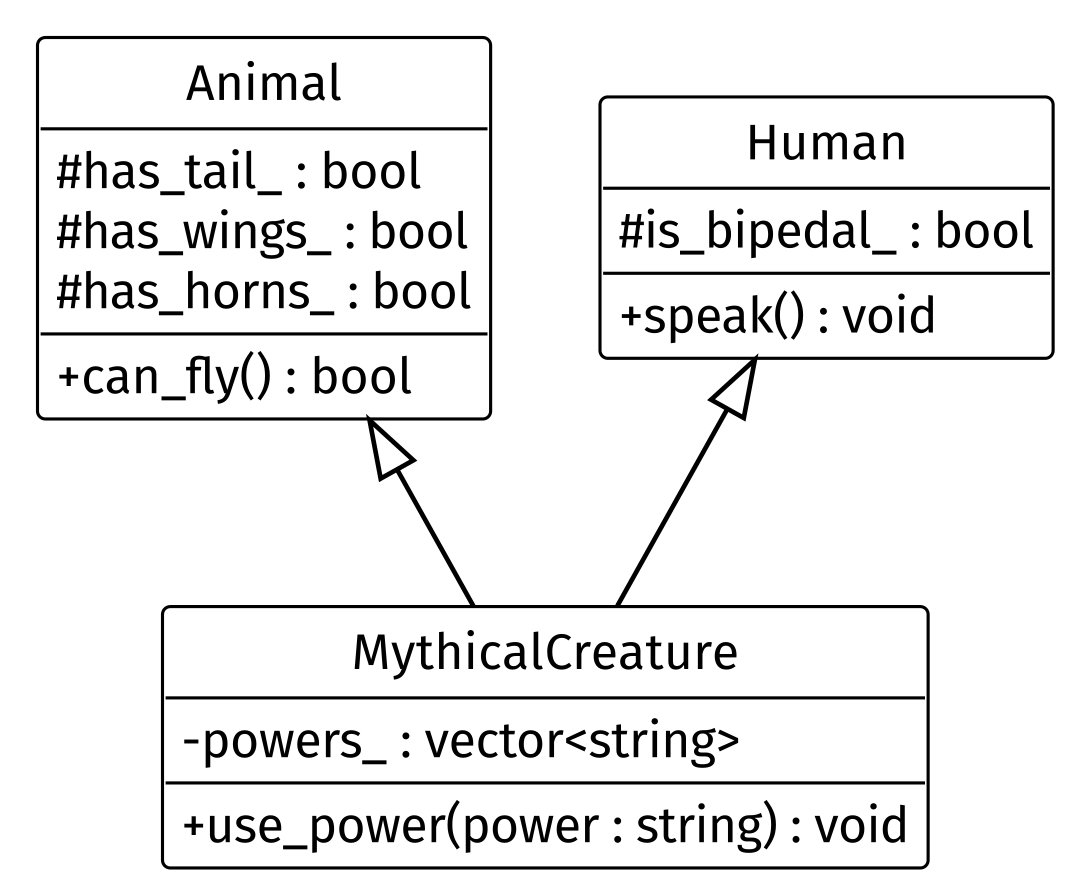
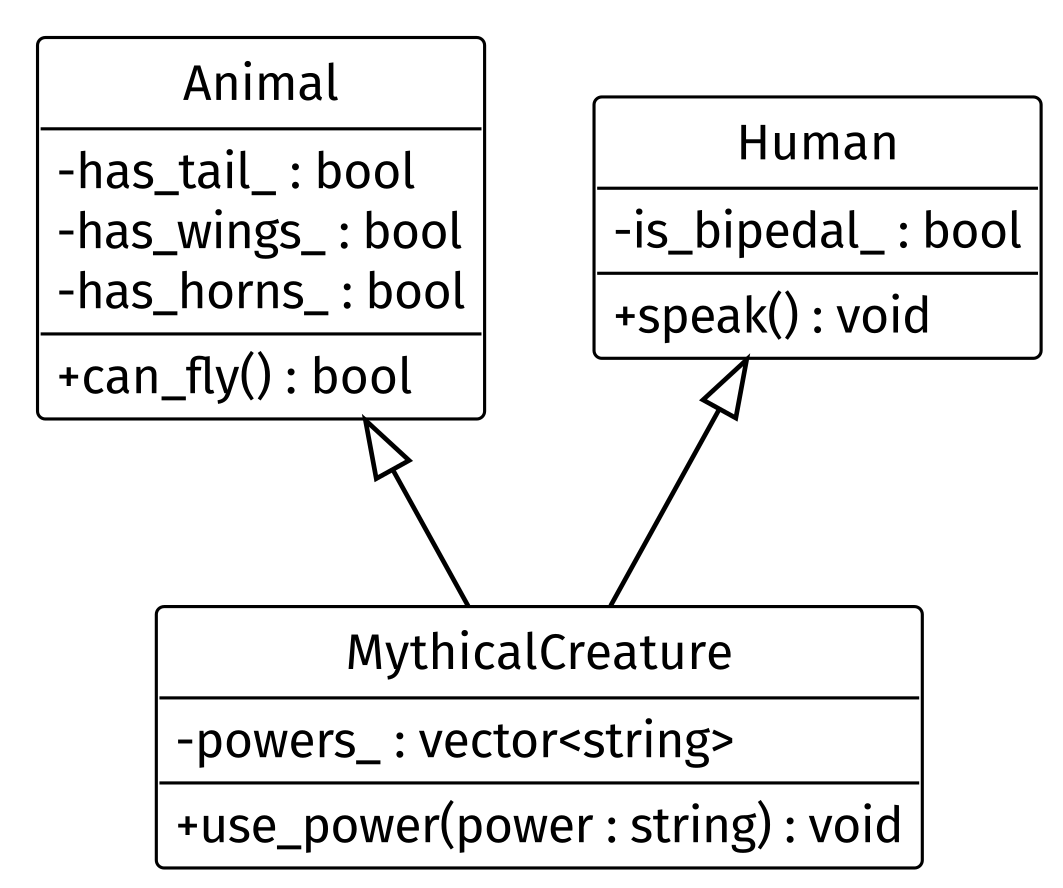
L9: weak_ptr choice, multiplicity decisions, inheritance kinds
The docs follow the deck: Choosing the Type of ride_, A Vehicle Uses a
Route inside Dependency, multiplicity on each relationship, private data in
the Animal examples, the inheritance kinds figure, and the link to the
PlantUML sources.

diff --git a/docs/source/lectures/lecture9/l9_lecture.rst b/docs/source/lectures/lecture9/l9_lecture.rst
@@ -370,6 +370,7 @@ Multiplicity
 - ``0..1`` at ``Vehicle``: one passenger rides at most one vehicle at a time.
 - ``0..*`` at ``Passenger``: one vehicle carries any number of passengers.
 - An end with no number leaves the count open.
+- The number at ``B``'s end decides ``A``'s member: ``0..1`` or ``1``, one object; ``0..*`` or ``1..*``, a container such as ``std::vector``.
 
 A Diagram as Text
 """""""""""""""""
@@ -396,6 +397,10 @@ Two boxes of the design, in PlantUML:
 - A line is written between two class names: ``-->`` is an arrow, ``o--`` an open diamond, ``*--`` a filled diamond, ``<|--`` a hollow triangle, ``..>`` a dashed arrow.
 - The VS Code extension draws the file as you type (``Alt+D``).
 - The whole diagram is ``project/week9/uml/robotaxi_model.plantuml``.
+
+.. note::
+
+   The PlantUML source of the UML diagrams on the slides is in `project/week9/uml <https://github.com/zeidk/enpm702-fall-2026-cpp/tree/main/project/week9/uml>`__. See `PlantUML: class diagrams <https://plantuml.com/class-diagram>`__.
 
 Summary
 ^^^^^^^
@@ -469,20 +474,6 @@ Every question is about the design, not about code that already exists.
 3. If ``A`` keeps ``B``: can ``B`` exist without ``A``? A ``Sensor`` is part of its ``Vehicle`` and goes with it, so composition: ``std::unique_ptr``, or a plain member as for a ``Route``'s ``Position`` values.
 4. If ``B`` lives on its own: must ``A`` keep it alive? The ``Fleet`` must, so aggregation: ``std::shared_ptr``. A ``Passenger`` must not: FR-12.3 says boarding does not keep a vehicle alive, so association: ``std::weak_ptr``.
 
-A Vehicle Uses a Route
-""""""""""""""""""""""
-
-.. figure:: /_static/images/l9/model_l9_dependency_members.png
-   :alt: A UML class diagram with only two boxes, Vehicle on the left and Route on the right, each listing its members; both boxes and the arrow are purple. Vehicle, its name in italics, has the data members minus id_ : int, the underlined minus next_id_ : int, minus max_speed_ : double, minus speed_ : double, minus color_ : string, minus mileage_ : double and minus sensors_ : vector of unique_ptr of Sensor, and the methods plus Vehicle(double, const string& = "white"), plus Vehicle(double, double), plus get_id() : int, plus get_color() : const string&, plus get_max_speed() : double, plus get_speed() : double, plus set_speed(double) : void, plus get_mileage() : double, plus add_mileage(double) : void, plus add_sensor(SensorType, double) : int, plus sensor_count() : size_t, plus get_sensors() : const vector of unique_ptr of Sensor&, plus drive(const Route&) : void in italics, the underlined plus next_id() : int, and the protected hash log_event(const string&) : void. Route has minus waypoints_ : vector of Position, plus add(Position) : void and plus length() : double. A dashed arrow labeled uses runs from Vehicle to Route.
-   :align: center
-   :width: 100%
-
-   ``Vehicle`` and ``Route`` with every member: the dashed arrow labeled ``uses``.
-
-- The first question of the table at work: ``Vehicle`` and ``Route``, with every member. ``Route`` is in one place only in ``Vehicle``'s box: the parameter of ``drive``.
-- No data member of ``Vehicle`` is a ``Route``. That is what the dashed arrow says: ``Vehicle`` uses a ``Route`` during a call and keeps nothing.
-- ``Route``'s box lists ``waypoints_``, as every box lists its data members; the ``has`` line to ``Position`` is not drawn here.
-
 Association
 ^^^^^^^^^^^
 
@@ -530,9 +521,41 @@ A Passenger Rides a Vehicle
 
    ``Passenger`` and ``Vehicle`` with every member: the arrow labeled ``rides``, its ``Vehicle`` end named ``-ride_``.
 
+- ``0..1`` at ``Vehicle``: a passenger rides at most one vehicle, so ``ride_`` is one ``std::weak_ptr``, not a container. ``0..*`` at ``Passenger`` needs no member: the arrow is one-way.
 - The same two boxes as in `Passenger and Vehicle in the Class Diagram`_, with every member. ``Passenger`` is what we write in Step 1: a name, a constructor, ``board`` and ``leave``.
 - ``ride_`` is in ``Passenger``'s box, with its type, ``std::weak_ptr<Vehicle>``. Its name is at the ``Vehicle`` end of the arrow too: the line says which data member holds the vehicle.
 - ``Vehicle``'s box is the class you are given, in ``vehicle.hpp`` and ``vehicle.cpp``, with the id and the static counter ``next_id_``. ``drive`` is in italics: `Abstraction`_ makes it pure ``virtual``. Step 1 does not touch ``Vehicle``.
+
+Choosing the Type of ``ride_``
+""""""""""""""""""""""""""""""
+
+:ref:`FR-12.3 <fr-12-3>`: "Boarding shall not keep a vehicle alive". The company can retire a car during a ride. Three types could hold the car in ``ride_``:
+
+.. list-table::
+   :header-rows: 1
+   :widths: 24 22 38 16
+
+   * - Type of ``ride_``
+     - Keeps the car alive?
+     - After the car is destroyed
+     - FR-12.3
+   * - ``std::shared_ptr<Vehicle>``
+     - Yes: the passenger is an owner
+     - The car is never destroyed while the passenger rides
+     - Broken
+   * - ``Vehicle*``
+     - No
+     - The pointer dangles: the code cannot tell, and reading it is undefined behavior
+     - Met, unsafely
+   * - ``std::weak_ptr<Vehicle>``
+     - No
+     - ``expired()`` is true, and ``lock()`` gives an empty pointer
+     - Met
+
+- A ``std::shared_ptr`` makes Maya an owner: a car the company retires would live on as long as Maya rides.
+- A plain pointer owns nothing, but when the car is destroyed it still holds the old address. The code cannot tell, and reading through it is undefined behavior.
+- A ``std::weak_ptr`` owns nothing and can tell. That is why ``ride_`` is a ``std::weak_ptr``. `Two Separate Lifetimes`_ runs it.
+- A plain pointer is right only when the other object surely outlives this one, as a ``Vehicle`` outlives the sensors it owns.
 
 Two Separate Lifetimes
 """"""""""""""""""""""
@@ -548,7 +571,7 @@ Two Separate Lifetimes
    car_a.reset();  // the only owner lets go
    std::cout << std::boolalpha
              << watcher.expired() << '\n';
-   maya.leave();   // her ride_ has expired
+   maya.leave();   // maya's ride_ has expired
 
 .. code-block:: text
 
@@ -559,9 +582,9 @@ Two Separate Lifetimes
 - ``13.4`` is 13.4 m/s, the maximum speed (about 30 mph).
 - ``use_count()`` stays 1 after ``board``: the ``std::weak_ptr`` is not an owner.
 - ``watcher`` is a second ``std::weak_ptr``, only for the check. ``reset()`` ends the only owner, and ``expired()`` is true: the ``Vehicle`` object is destroyed, although ``maya`` still refers to it.
-- ``maya`` lives on, aboard a car that no longer exists. FR-12.3 allows it, and her ``std::weak_ptr`` can tell that the car is gone, where a plain pointer could not.
+- ``maya`` lives on, aboard a car that no longer exists. FR-12.3 allows it, and ``ride_`` can tell that the car is gone, where a plain pointer could not.
 - The type follows a requirement, not the real world: :ref:`FR-12.3 <fr-12-3>` says boarding shall not keep a vehicle alive. In C++, an owner is whoever decides when an object is destroyed, nothing more.
-- A ``std::shared_ptr`` would make ``maya`` an owner: the car could not be destroyed while she holds it, even after the fleet removes it. That breaks FR-12.3: a car outside the fleet, still carrying a passenger.
+- A ``std::shared_ptr`` would make ``maya`` an owner: the car could not be destroyed while maya holds it, even after the fleet removes it. That breaks FR-12.3: a car outside the fleet, still carrying a passenger.
 - Could ``remove`` check ``use_count()`` and refuse when it is above 1? The count counts every owner, not passengers. In Step 2, ``car_b.use_count()`` is 2 just before ``remove``, with no passenger: ``main`` holds one copy and the fleet the other.
 - A plain pointer or a reference does not own the car either, but it cannot tell when the car is destroyed: the next use reads freed memory. A ``std::weak_ptr`` refers to the car without owning it, and it can check first.
 - Run: ``702run week9_playground 26``.
@@ -581,44 +604,6 @@ A program models the part of reality that its requirements need. It departs from
 
 - Start from reality: classes named after the domain are easy to read. When reality and the requirements disagree, the requirements win.
 - The test to use: what must happen to ``B`` when ``A`` is destroyed, and which requirement says so?
-
-A std::weak_ptr, or a Plain Pointer
-"""""""""""""""""""""""""""""""""""
-
-.. grid:: 1 1 2 2
-   :gutter: 2
-
-   .. grid-item::
-
-      .. code-block:: cpp
-
-         class Passenger {  // cut
-           // ...
-          private:
-           std::weak_ptr<Vehicle> ride_;
-         };
-
-   .. grid-item::
-
-      .. code-block:: cpp
-
-         class Sensor {  // a variant
-          public:
-           explicit Sensor(const Vehicle* mount)
-               : mount_{mount} {}
-          private:
-           const Vehicle* mount_;  // owns nothing
-         };
-         // in add_sensor:
-         //   std::make_unique<Sensor>(this)
-
-- A ``std::weak_ptr`` when the other object is owned by ``std::shared_ptr`` and can be destroyed first: a car can be retired during a ride (FR-12.3).
-- A plain pointer when the other object surely outlives this one. The right box is a variant: a sensor that would know which car it is mounted on. A ``Vehicle`` owns its sensors, so it outlives each of them; our ``Sensor`` has no such member. The pointer comes from ``this``, not from ``new``: ``add_sensor`` still uses ``std::make_unique``, and nobody deletes through ``mount_``.
-- Never a ``std::shared_ptr``: it would make the passenger an owner, and keep a retired car alive.
-
-.. note::
-
-   "A raw pointer (a ``T*``) is non-owning". Rule: `Core Guidelines R.3 <https://isocpp.github.io/CppCoreGuidelines/CppCoreGuidelines#rr-ptr>`__.
 
 Live Coding: Step 1
 """""""""""""""""""
@@ -689,6 +674,7 @@ A Fleet Holds Vehicles
 
    ``Fleet`` and ``Vehicle`` with every member: the line labeled ``holds``, its ``Vehicle`` end named ``-vehicles_``.
 
+- ``0..*`` at ``Vehicle``: a fleet holds any number of vehicles, so ``vehicles_`` is a ``std::vector``, with one ``std::shared_ptr<Vehicle>`` per vehicle.
 - The same two boxes as in `Fleet and Vehicle in the Class Diagram`_, with every member. ``Fleet`` is what you write in Step 2: ``add``, ``remove`` and ``size``.
 - ``vehicles_`` is in ``Fleet``'s box, with its type, a ``std::vector`` of ``std::shared_ptr<Vehicle>``. Its name is at the ``Vehicle`` end of the line too.
 - ``Vehicle``'s box does not change in Step 2. ``Fleet`` needs only ``get_id``, to remove a vehicle by its id.
@@ -720,7 +706,7 @@ The Vehicles Outlive the Fleet
    1 13.4
 
 - Inside the scope, ``car_a`` and the fleet share the first ``Vehicle``: 2 owners. ``remove`` lets go of the second one, and it lives on with 1 owner. So does the first, after the fleet is gone.
-- Run: ``702run week9_playground 35``.
+- Run: ``702run week9_playground 34``.
 
 Shared Ownership Needs std::shared_ptr
 """"""""""""""""""""""""""""""""""""""
@@ -773,7 +759,7 @@ A Route Owns Its Positions
 
    ``Route`` and ``Position`` with every member: the line labeled ``has``.
 
-- ``waypoints_`` holds the ``Position`` values themselves, in a ``std::vector``: they are destroyed with the ``Route``.
+- ``0..*`` at ``Position``: a route has any number of waypoints, so ``waypoints_`` is a ``std::vector``. It holds the ``Position`` values themselves: they are destroyed with the ``Route``.
 - ``waypoints_`` is in ``Route``'s box, and its name is at the ``Position`` end of the ``has`` line too. ``Position`` is a ``struct``: any ``x`` and any ``y`` make a position.
 
 A Vehicle Owns Its Sensors
@@ -786,7 +772,7 @@ A Vehicle Owns Its Sensors
 
    ``Vehicle`` and ``Sensor`` with every member: the line labeled ``owns``.
 
-- ``sensors_`` holds one ``std::unique_ptr`` per ``Sensor``: each ``Sensor`` is destroyed with its ``Vehicle``.
+- ``0..*`` at ``Sensor``: a vehicle has any number of sensors, so ``sensors_`` is a ``std::vector``, with one ``std::unique_ptr`` per ``Sensor``. Each ``Sensor`` is destroyed with its ``Vehicle``.
 - ``Sensor``'s ``type_`` is a ``SensorType``, the enumeration. Its box is not in this diagram, because no composition involves it.
 - Nothing here is new code: ``Vehicle``, ``Sensor``, ``Route`` and ``Position`` are all in ``project/week9/common`` already.
 
@@ -828,7 +814,7 @@ Each Route Has Its Own Positions
 
 - Positions in m, chosen for this example: from the pickup (0, 0) to Maya's stop (300, 400) is 500 m, the long side of a 300, 400, 500 right triangle. Ana's stop is 400 m straight down, at (300, 0): 500 + 400 = 900.
 - The copy has its own ``Position`` values: adding Ana's stop to ``shared_ride`` leaves ``maya_ride`` at 500 m. A part belongs to one whole.
-- Run: ``702run week9_playground 43``.
+- Run: ``702run week9_playground 42``.
 
 Aggregation or Composition
 """"""""""""""""""""""""""
@@ -883,6 +869,20 @@ Vehicle and Route in the Class Diagram
 
 - The dashed arrow is the weakest line in the diagram. No diamond and no number: a vehicle does not hold a route, it is handed one for each drive.
 - The other dashed arrow, from ``Sensor`` to ``SensorType``, is a dependency too: ``Sensor`` uses the enumeration as the type of a member.
+
+A Vehicle Uses a Route
+""""""""""""""""""""""
+
+.. figure:: /_static/images/l9/model_l9_dependency_members.png
+   :alt: A UML class diagram with only two boxes, Vehicle on the left and Route on the right, each listing its members; both boxes and the arrow are purple. Vehicle, its name in italics, has the data members minus id_ : int, the underlined minus next_id_ : int, minus max_speed_ : double, minus speed_ : double, minus color_ : string, minus mileage_ : double and minus sensors_ : vector of unique_ptr of Sensor, and the methods plus Vehicle(double, const string& = "white"), plus Vehicle(double, double), plus get_id() : int, plus get_color() : const string&, plus get_max_speed() : double, plus get_speed() : double, plus set_speed(double) : void, plus get_mileage() : double, plus add_mileage(double) : void, plus add_sensor(SensorType, double) : int, plus sensor_count() : size_t, plus get_sensors() : const vector of unique_ptr of Sensor&, plus drive(const Route&) : void in italics, the underlined plus next_id() : int, and the protected hash log_event(const string&) : void. Route has minus waypoints_ : vector of Position, plus add(Position) : void and plus length() : double. A dashed arrow labeled uses runs from Vehicle to Route.
+   :align: center
+   :width: 100%
+
+   ``Vehicle`` and ``Route`` with every member: the dashed arrow labeled ``uses``.
+
+- The same two boxes, with every member. This is the flowchart's dependency question at work: does ``Vehicle`` use ``Route`` without keeping it? ``Route`` is in one place only in ``Vehicle``'s box: the parameter of ``drive``.
+- No data member of ``Vehicle`` is a ``Route``. That is what the dashed arrow says: ``Vehicle`` uses a ``Route`` during a call and keeps nothing.
+- ``Route``'s box lists ``waypoints_``, as every box lists its data members; the ``has`` line to ``Position`` is not drawn here.
 
 A Route for One Call
 """"""""""""""""""""
@@ -947,7 +947,15 @@ Inheritance
    class Derived : protected Base { /* what Derived adds */ };
    class Derived : private Base { /* what Derived adds */ };
 
-- This course uses ``public`` inheritance. `protected and private Inheritance`_ shows what each of the three does to the base's members.
+.. figure:: /_static/images/l9/inheritance_kinds.png
+   :alt: Three UML panels side by side, one per kind of inheritance, each headed by its syntax: class Derived : public Base, class Derived : protected Base, class Derived : private Base. In each, a Base box lists plus start() : void, hash log_event() : void and minus check() : void, and a Derived box below it joins Base by a line with a hollow triangle at Base. With public inheritance, Derived lists plus start() and hash log_event(). With protected inheritance, hash start() and hash log_event(). With private inheritance, minus start() and minus log_event(). In all three, Derived lists check() in grey as not accessible.
+   :align: center
+   :width: 100%
+
+   What ``start()``, ``log_event()`` and ``check()`` of ``Base`` become in ``Derived``, for each kind of inheritance.
+
+- Three kinds, by the keyword before the base. With ``public``, ``start()`` stays public; with ``protected``, it becomes protected; with ``private``, both methods become private. ``check()`` is private in ``Base``, so ``Derived`` never reaches it, whatever the keyword.
+- This course uses ``public`` inheritance; `protected and private Inheritance`_ has the full table.
 - In UML, a hollow triangle at the base class.
 - What every kind of vehicle shares (an id, the speeds and their check, the sensors) is written once, in ``Vehicle``.
 
@@ -955,7 +963,7 @@ Single Inheritance
 """"""""""""""""""
 
 .. figure:: /_static/images/l9/single_inheritance.png
-   :alt: A UML class diagram. On top, Animal, with the protected data member species_ : string and the method plus make_sound(sound : string) : void. Below it, Bird, with minus wing_span_ : double and plus can_fly() : bool, and Elephant, with plus use_trunk() : void. Each joins Animal by a line with a hollow triangle at Animal.
+   :alt: A UML class diagram. On top, Animal, with minus species_ : string and the method plus make_sound(sound : string) : void. Below it, Bird, with minus wing_span_ : double and plus can_fly() : bool, and Elephant, with plus use_trunk() : void. Each joins Animal by a line with a hollow triangle at Animal.
    :align: center
    :width: 55%
 
@@ -978,14 +986,14 @@ Multiple Inheritance, in UML
 """"""""""""""""""""""""""""
 
 .. figure:: /_static/images/l9/multiple_inheritance.png
-   :alt: A UML class diagram. On top, two boxes side by side: Animal, with the protected data members has_tail_, has_wings_ and has_horns_, each a bool, and the method plus can_fly() : bool; and Human, with the protected data member is_bipedal_ : bool and the method plus speak() : void. Below them, MythicalCreature, with minus powers_ : vector<string> and plus use_power(power : string) : void. MythicalCreature joins each of the two boxes by a line with a hollow triangle at the box above.
+   :alt: A UML class diagram. On top, two boxes side by side: Animal, with minus has_tail_, minus has_wings_ and minus has_horns_, each a bool, and the method plus can_fly() : bool; and Human, with minus is_bipedal_ : bool and the method plus speak() : void. Below them, MythicalCreature, with minus powers_ : vector<string> and plus use_power(power : string) : void. MythicalCreature joins each of the two boxes by a line with a hollow triangle at the box above.
    :align: center
    :width: 55%
 
    Multiple inheritance: MythicalCreature has two base classes.
 
 - **Multiple inheritance**: a class derives from more than one base class, separated by commas.
-- A ``MythicalCreature``, such as a sphinx, is an ``Animal`` and a ``Human``. It gets the ``public`` and ``protected`` members of both: ``has_wings_`` and ``can_fly`` from ``Animal``, ``is_bipedal_`` and ``speak`` from ``Human``. Its code is in `Multiple Inheritance`_, under Further Reading.
+- A ``MythicalCreature``, such as a sphinx, is an ``Animal`` and a ``Human``. It gets the ``public`` and ``protected`` members of both. A ``MythicalCreature`` object holds the data of both, and its code can call the ``public`` methods of both: ``can_fly`` from ``Animal``, ``speak`` from ``Human``. The data stays ``private`` to each base class. Its code is in `Multiple Inheritance`_, under Further Reading.
 
 .. figure:: /_static/images/l9/sphinx.png
    :alt: An engraving of a winged sphinx: a human head with long hair on a lion's body, with feathered wings and a curled tail, one front paw resting on a ball.
@@ -2246,8 +2254,10 @@ Multiple Inheritance
 
    class Animal {
     public:
+     explicit Animal(
+         bool has_wings);
      bool can_fly() const;
-    protected:
+    private:
      bool has_tail_{true};
      bool has_wings_{false};
      bool has_horns_{false};
@@ -2256,7 +2266,7 @@ Multiple Inheritance
    class Human {
     public:
      void speak() const;
-    protected:
+    private:
      bool is_bipedal_{true};
    };
 
@@ -2265,9 +2275,8 @@ Multiple Inheritance
     public:
      MythicalCreature(bool has_wings,
          std::vector<std::string> powers)
-         : powers_{std::move(powers)} {
-       has_wings_ = has_wings;
-     }
+         : Animal{has_wings},
+           powers_{std::move(powers)} {}
      void use_power(
          const std::string& power) const;
 
@@ -2275,7 +2284,7 @@ Multiple Inheritance
      std::vector<std::string> powers_;
    };
 
-- The base classes are separated by commas. The constructor sets ``has_wings_``, a ``protected`` member of ``Animal``.
+- The base classes are separated by commas. The constructor passes ``has_wings`` to ``Animal``'s constructor: ``Animal``'s data stays ``private``.
 - A ``const Animal&`` and a ``const Human&`` can both refer to a ``MythicalCreature``.
 - Run: ``702run week9_appendix ix``. A sphinx with wings and the power ``riddle`` prints ``true`` for ``can_fly`` through the ``const Animal&``, ``Human: speaks`` through the ``const Human&``, then ``uses riddle``.
 

diff --git a/docs/source/changelog/changelog.rst b/docs/source/changelog/changelog.rst
@@ -53,6 +53,16 @@ All notable changes to the ENPM702 Fall 2026 course documentation are recorded h
      a Taxi, Not the Other Way, and Through Vehicle's public Methods; the
      inheritance syntax shows public, protected and private; protected
      Members and Constructors and Inheritance are parts of Inheritance.
+   - **Lecture 9**: Choosing the Type of ``ride_`` compares three types against
+     FR-12.3 and replaces A std::weak_ptr, or a Plain Pointer. A Vehicle Uses
+     a Route moves into Dependency. Each relationship section says what its
+     multiplicity decides: one object or a ``std::vector``.
+   - **Lecture 9**: Inheritance shows public, protected and private
+     inheritance in one figure. The Animal examples keep their data
+     ``private``; MythicalCreature passes ``has_wings`` to Animal's
+     constructor.
+   - **Lecture 9**: the PlantUML source of the slides' UML diagrams is in
+     ``project/week9/uml``.
    - **Lecture 9**: when a relationship needs a smart pointer: A std::weak_ptr,
      or a Plain Pointer (association), Shared Ownership Needs std::shared_ptr
      (aggregation), and one line each for dependency and inheritance. Vehicle

diff --git a/docs/source/lectures/lecture9/l9_requirements.rst b/docs/source/lectures/lecture9/l9_requirements.rst
@@ -692,7 +692,7 @@ slide.
      -
    * - FR-10.1 to FR-10.5
      - Yes: ``Fleet::add``, ``Fleet::remove``, ``Fleet::size``.
-     - Live Coding Step 2. ``702run week9_playground 35`` (The Vehicles
+     - Live Coding Step 2. ``702run week9_playground 34`` (The Vehicles
        Outlive the Fleet) prints ``2 2``, ``1 1`` and ``1 13.4``. Measured:
        adding the same vehicle twice gives a size of 1, and removing an
        unknown id returns ``false``.
